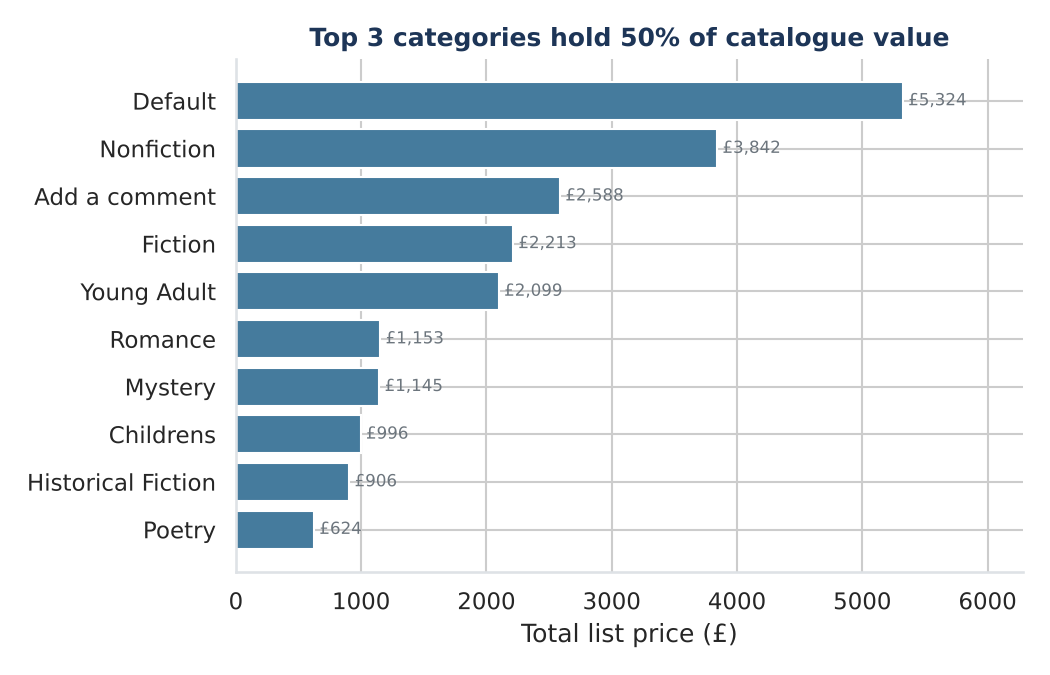
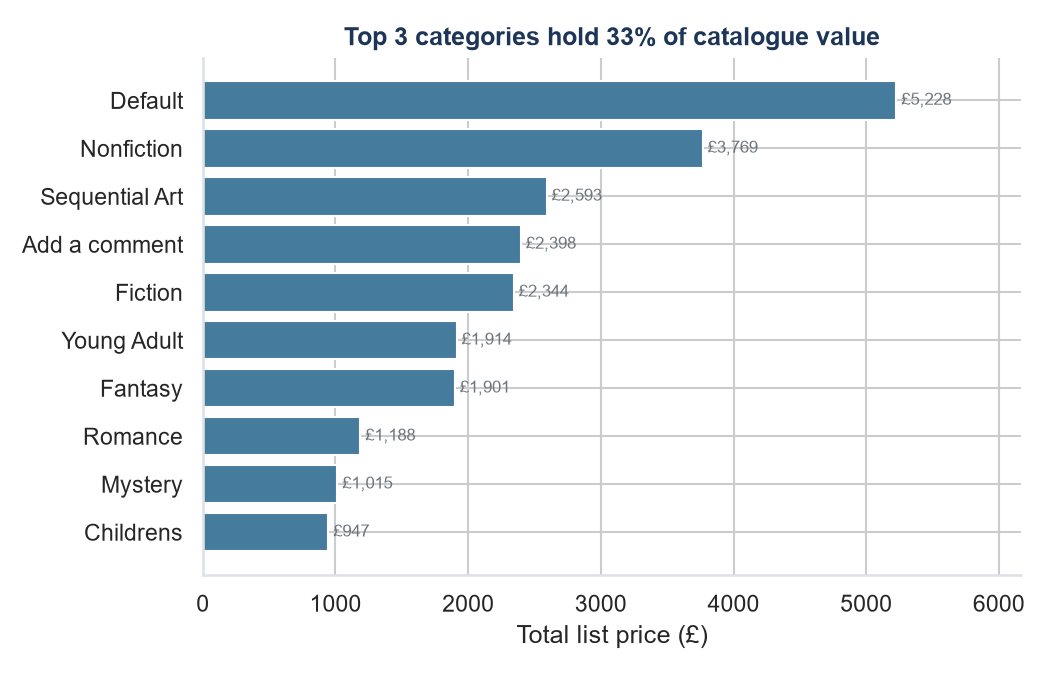
Add files via upload

diff --git a/insights.md b/insights.md
@@ -1,5 +1,5 @@
 # Key insights
-- The 3 biggest categories hold 50% of the catalogue's total list value.
-- 39% of books are rated 4-5 stars; mean rating is 2.96.
-- Median price £36.38; priciest category on average: Music (£45.19).
-- Correlation between price and rating: 0.01 (Spearman).
+- The 3 biggest categories hold 33% of the catalogue's total list value.
+- 38% of books are rated 4-5 stars; mean rating is 2.92.
+- Median price £35.98; priciest category on average: Suspense (£58.33).
+- Correlation between price and rating: 0.03 (Spearman).
